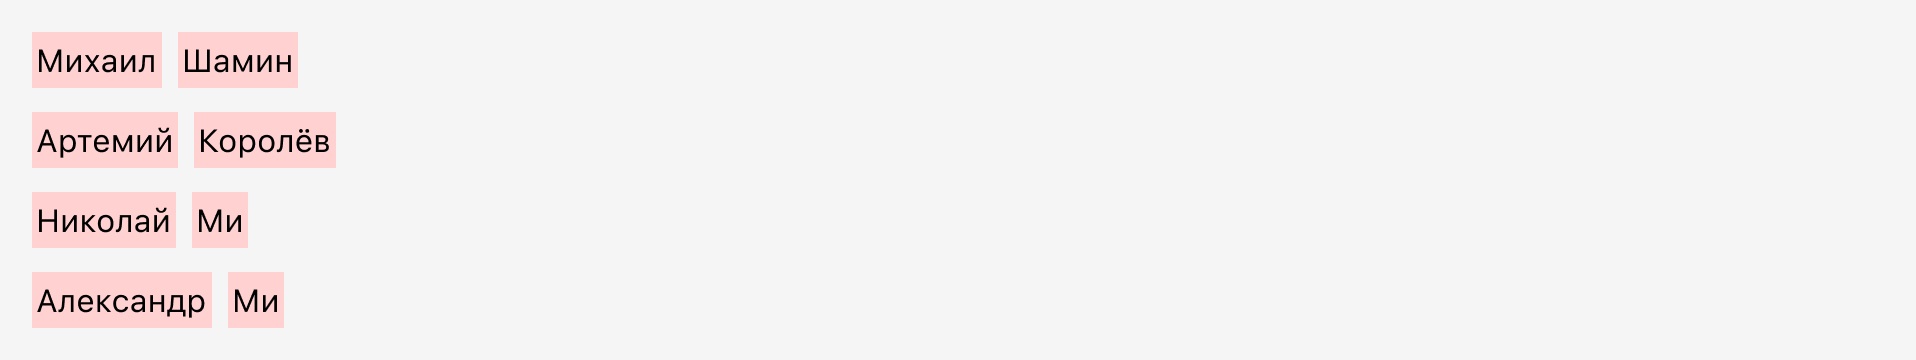
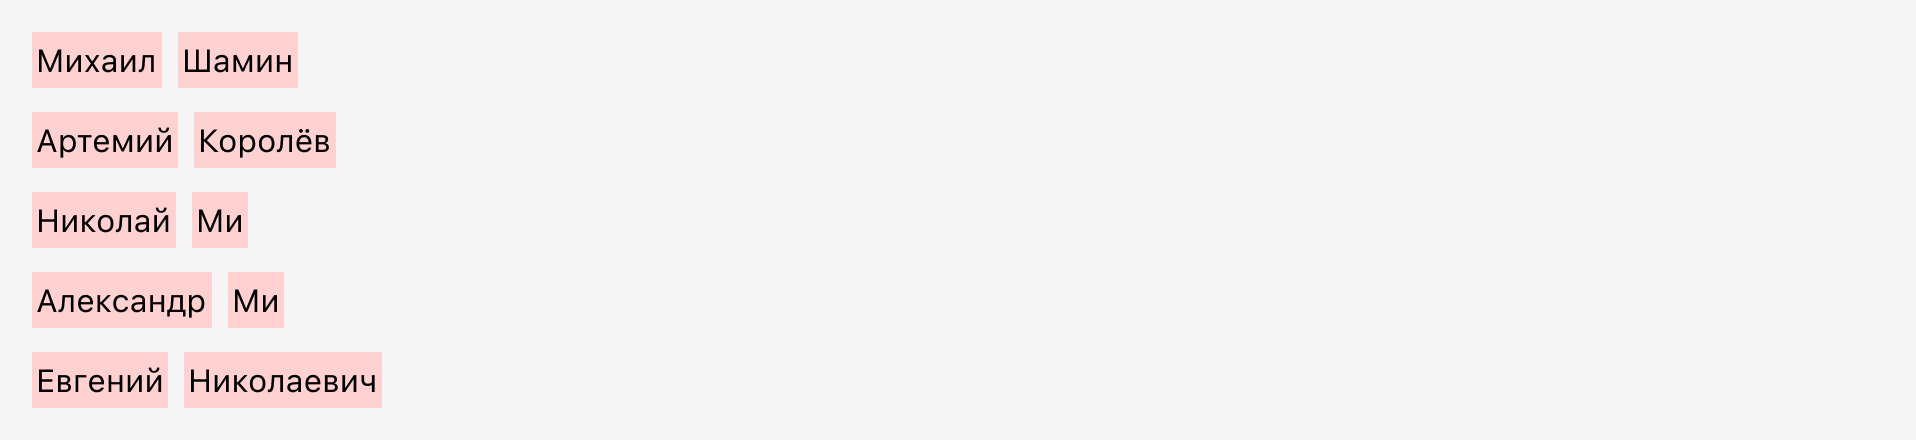
Добавляет описание для поиска по справочникам и Multiple Choice

Changed region(s): [[0.0, 0.1222, 0.2156, 0.9472], [0.0, 0.0611, 0.154, 0.0917]]

diff --git a/docs/patterns/classified/search/index.md b/docs/patterns/classified/search/index.md
@@ -49,53 +49,55 @@ sidebar_position: 1
 ### Поиск по имени контакта
 В справочнике контактов есть несколько контактов. DISPLAY_NAME каждого контакта засплитовано по пробелу:
 
-![Поиск по телефону](./4.png)
+![Поиск по имени контакта](./4.png)
 
 Пользователь вводит значение:
 
-![Поиск по телефону](./5.png)
+![Поиск по имени контакта](./5.png)
 
 Система осуществляет поиск по вхождению в каждое значение справочника:
 
-![Поиск по телефону](./6.png)
+![Поиск по имени контакта](./6.png)
 
-Так как у трех значений есть совпадение вначале слов, такие контакты показываются выше:
+Так как в значении `Евгений Николаевич` не нашлось совпадений — отфильтровываем его.
 
-![Поиск по телефону](./7.png)
+В то же время у трех значений есть совпадение вначале слов, такие контакты показываются выше:
+
+![Поиск по имени контакта](./7.png)
 
 Пользователь продолжает ввод и ставит пробел:
 
-![Поиск по телефону](./8.png)
+![Поиск по имени контакта](./8.png)
 
 Система интерпретирует это как фиксацию первого ключевого слова. И перестает искать совпадения по вхождению, переходит на поиск по точному совпадению среди найденных ранее значений.
 
-![Поиск по телефону](./9.png)
+![Поиск по имени контакта](./9.png)
 
 Совпавшие значения исключаются из дальнейшего поиска.
 
 Пользователь продолжает ввод и ставит букву А:
 
-![Поиск по телефону](./10.png)
+![Поиск по имени контакта](./10.png)
 
 Система продолжает поиск с учетом первого ключевого слова. Система проверяет на предмет вхождения второе ключевое слово во всех значениях найденных ранее контактов.
 
 Совпадения найдены в обоих контактах, но у одного из них есть совпадение вначале значения. Система повышает позицию такого контакта:
 
-![Поиск по телефону](./11.png)
+![Поиск по имени контакта](./11.png)
 
 Пользователь продолжает ввод и ставит букву л:
 
-![Поиск по телефону](./12.png)
+![Поиск по имени контакта](./12.png)
 
 Система проверяет на предмет вхождения второе ключевое слово во всех значениях найденных ранее контактов.
 
 Совпадения найдены только в первом:
 
-![Поиск по телефону](./13.png)
+![Поиск по имени контакта](./13.png)
 
 Если поиск не дал результатов, то выводим сообщение об этом. Текст ошибки может быть изменен в зависимости от названия поля.
 
-![Поиск по телефону](./14.png)
+![Поиск по имени контакта](./14.png)
 
 ## Исключения
 В справочнике могут быть значения записанные через букву `ё`: Артём, Пётр, Фёдор, Алёна и другие имена и их производные:

diff --git a/docs/patterns/classified/index.md b/docs/patterns/classified/index.md
@@ -11,6 +11,7 @@
 - Выбранное значение в справочнике подсвечивается через токен `colorOnBackgroundThird`.
   ![Поиск по телефону](./img/3.png)
 - Если сценарий подразумевает одиночный выбор, то значение из справочника выбирается сразу, без дополнительного подтверждения.
+- Если сценарий подразумевает множественный выбор значений из справочника и справочник является частью формы, то используем компонент `Input Select Multiple Choice`.
 - При множественном выборе во все элементы списка добавляются чекбоксы. Если у элементов списка слева есть иконки, то чекбокс добавляется справа. Если иконок нет, то — слева. Кроме того, на экране справочника появляется кнопка в реализации `Button Gradient`.
   ![Поиск по телефону](./img/2.png)
 - Справочник всегда появляется справа налево, неважно как он был вызван.
